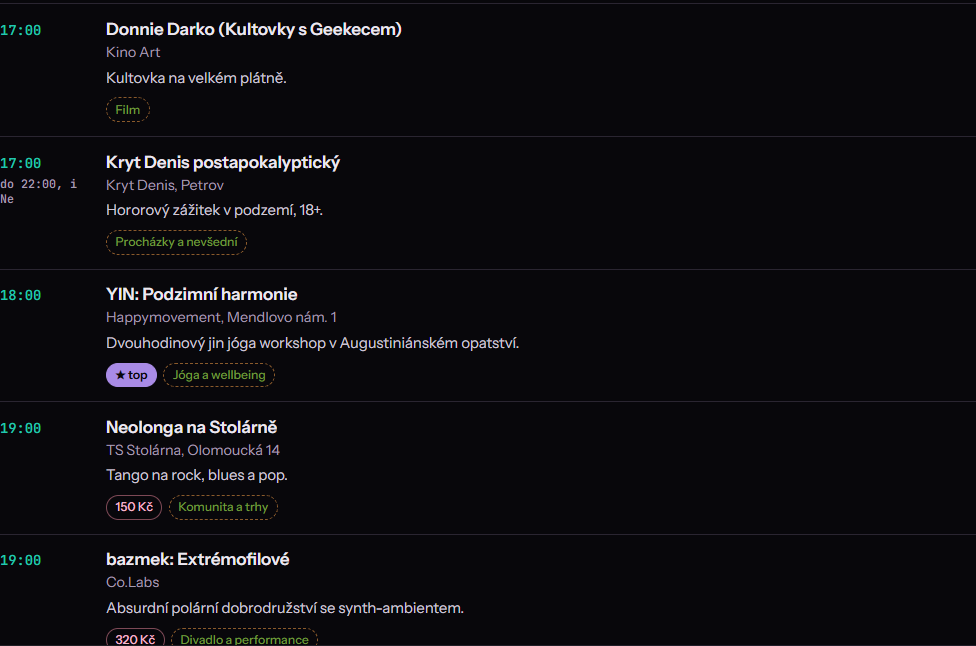
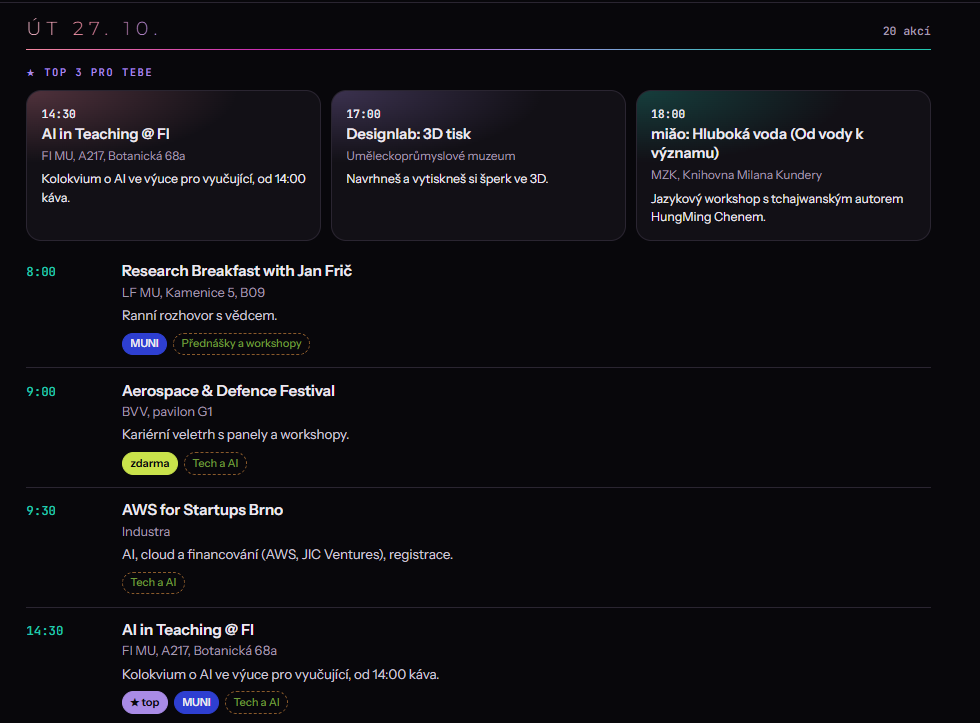
Feed: transparent Kam v Brně screenshots with tap-to-zoom
- Second screenshot replaced with the new one.
- Agent description removed.
- Screenshots are no longer post cards: their black background is
  turned into transparency so they sit directly on the photo; a tap
  opens the original (with black background) full screen.

Claude-Session: https://claude.ai/code/session_019ChwxwfncEmxb35x5SqQLE

diff --git a/feed.js b/feed.js
@@ -77,6 +77,45 @@
     return card;
   }
 
+  // screenshot bez karty (průhledný); klepnutí ho zvětší s původním černým pozadím
+  function screenFigure(o) {
+    var fig = el("figure", "screen");
+    var img = new Image();
+    img.alt = "";
+    img.loading = "lazy";
+    img.decoding = "async";
+    img.src = o.src;
+    fig.appendChild(img);
+    fig.setAttribute("role", "button");
+    fig.setAttribute("tabindex", "0");
+    fig.setAttribute("aria-label", "Zvětšit");
+    var open = function () { lightbox(o.velky || o.src); };
+    fig.addEventListener("click", open);
+    fig.addEventListener("keydown", function (e) { if (e.key === "Enter" || e.key === " ") { e.preventDefault(); open(); } });
+    return fig;
+  }
+
+  // zvětšený obrázek přes celou obrazovku; zavře se klepnutím nebo Esc
+  var box = null;
+  function lightbox(src) {
+    if (!box) {
+      box = el("div", "lightbox");
+      box.setAttribute("role", "dialog");
+      box.setAttribute("aria-label", "Zvětšený obrázek");
+      box.appendChild(el("button", "lightbox-close", "×"));
+      box.appendChild(new Image());
+      box.addEventListener("click", closeBox);
+      document.addEventListener("keydown", function (e) {
+        if (e.key === "Escape" && box.classList.contains("is-open")) { e.stopImmediatePropagation(); closeBox(); }
+      }, true);
+      document.body.appendChild(box);
+    }
+    box.querySelector("img").src = src;
+    box.scrollTop = 0;
+    box.classList.add("is-open");
+  }
+  function closeBox() { box.classList.remove("is-open"); }
+
   /* ---------- stránka ---------- */
 
   function title(text) {
@@ -105,10 +144,13 @@
       (s.prispevky || []).forEach(function (p) {
         sec.appendChild(postCard(p, F));
       });
+      (s.obrazky || []).forEach(function (o) {
+        sec.appendChild(screenFigure(o));
+      });
       (s.akce || []).forEach(function (a) {
         sec.appendChild(eventCard(a, F.zdarma));
       });
-      if (!(s.prispevky || []).length && !(s.akce || []).length) {
+      if (!(s.prispevky || []).length && !(s.akce || []).length && !(s.obrazky || []).length) {
         sec.appendChild(emptyCard(F.prazdnaKarta));
       }
       root.appendChild(sec);

diff --git a/style.css b/style.css
@@ -410,6 +410,47 @@ html, body {
   font-size: 12px;
 }
 
+/* screenshoty bez karty – průhledné, klepnutím se zvětší */
+.screen { margin: 0 0 20px; cursor: zoom-in; }
+.screen img { display: block; width: 100%; height: auto; }
+.screen:focus-visible { outline: 1px solid var(--card-line); outline-offset: 4px; }
+
+.lightbox {
+  position: fixed;
+  inset: 0;
+  z-index: 50;
+  display: none;
+  overflow: auto;
+  -webkit-overflow-scrolling: touch;
+  background: rgba(8, 7, 11, .97);
+  cursor: zoom-out;
+}
+.lightbox.is-open { display: block; }
+.lightbox img {
+  display: block;
+  width: auto;
+  max-width: none;
+  min-width: min(100%, 1100px);
+  max-height: none;
+  margin: 0 auto;
+}
+@media (min-width: 900px) { .lightbox img { width: min(100%, 1400px); min-width: 0; padding: 48px 0; } }
+@media (max-width: 899px) { .lightbox img { width: 200%; min-width: 0; } }
+.lightbox-close {
+  position: fixed;
+  top: max(12px, env(safe-area-inset-top));
+  right: 12px;
+  z-index: 1;
+  width: 40px;
+  height: 40px;
+  border: 1px solid rgba(255, 255, 255, .5);
+  border-radius: 50%;
+  background: rgba(0, 0, 0, .6);
+  color: #fff;
+  font: 22px/1 -apple-system, BlinkMacSystemFont, "Segoe UI", sans-serif;
+  cursor: pointer;
+}
+
 /* konec feedu */
 .feed-end { margin-top: 72px; text-align: center; }
 .feed-end svg { margin: 0 auto 12px; }

diff --git a/content.js b/content.js
@@ -121,11 +121,12 @@ window.OBSAH = {
       },
       {
         nazev: "Akce týdne (agent)",
-        popis: "Jednou týdně mi AI agent vybere akce v Brně podle mých témat (technologie, jóga, festivaly, design, přednášky). Preferuje akce zdarma.",
-        // screenshoty z mé stránky Kam v Brně (agent). cela: true = obrázek se neořízne
-        prispevky: [
-          { autor: "Kam v Brně", profilovka: "", kde: "AI agent", cas: "24.–31. 10. 2026",
-            text: "", foto: ["images/kam-v-brne-1.png", "images/kam-v-brne-2.png"], cela: true, reakce: "" },
+        popis: "",
+        // screenshoty mé stránky Kam v Brně: src = průhledná verze ve feedu,
+        // velky = původní obrázek, který se ukáže po klepnutí (zvětšený, s černým pozadím)
+        obrazky: [
+          { src: "images/kam-v-brne-1-pruhledny.png", velky: "images/kam-v-brne-1.png" },
+          { src: "images/kam-v-brne-2-pruhledny.png", velky: "images/kam-v-brne-2.png" },
         ],
       },
     ],

diff --git a/index.html b/index.html
@@ -8,7 +8,7 @@
   <link rel="preconnect" href="https://fonts.googleapis.com">
   <link rel="preconnect" href="https://fonts.gstatic.com" crossorigin>
   <link href="https://fonts.googleapis.com/css2?family=Anton&family=Inter:wght@400;500;600&family=Lora:wght@600;700&display=swap" rel="stylesheet">
-  <link rel="stylesheet" href="style.css?v=202610241250">
+  <link rel="stylesheet" href="style.css?v=202610241255">
 </head>
 <body>
 
@@ -40,9 +40,9 @@
     <main class="feed" id="feed-content"></main>
   </section>
 
-  <script src="content.js?v=202610241250"></script>
-  <script src="chaos.js?v=202610241250"></script>
-  <script src="feed.js?v=202610241250"></script>
-  <script src="app.js?v=202610241250"></script>
+  <script src="content.js?v=202610241255"></script>
+  <script src="chaos.js?v=202610241255"></script>
+  <script src="feed.js?v=202610241255"></script>
+  <script src="app.js?v=202610241255"></script>
 </body>
 </html>
